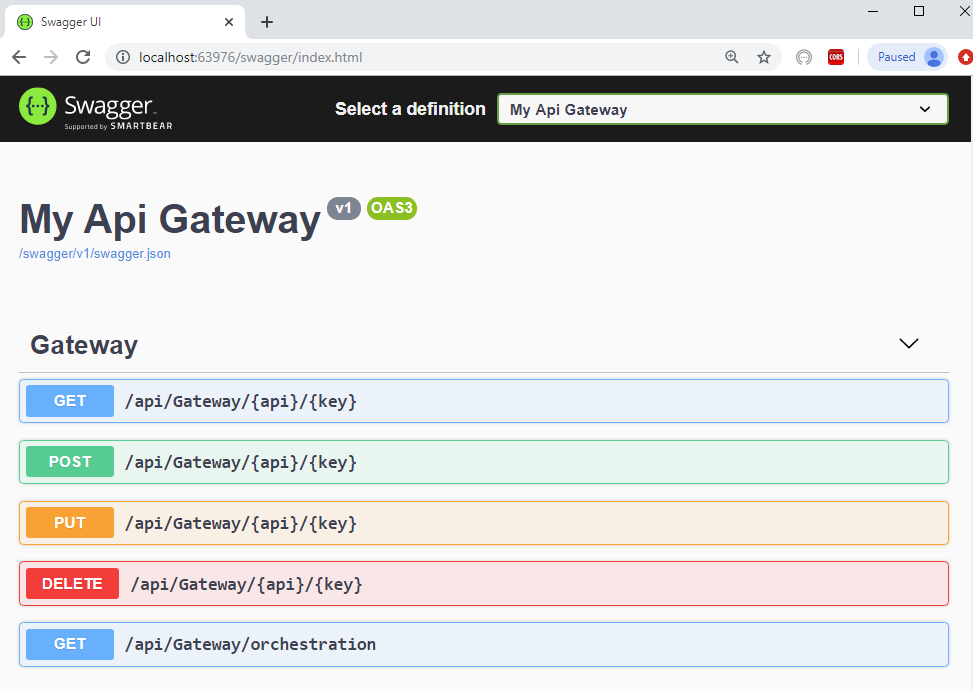
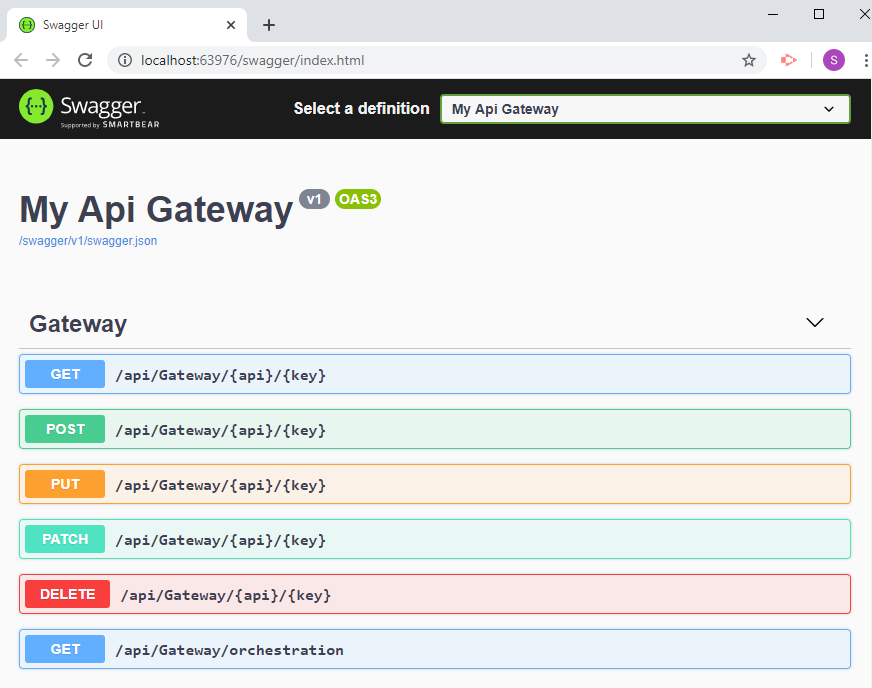
added verb patch.

diff --git a/AspNetCore.ApiGateway/Controllers/GatewayController.cs b/AspNetCore.ApiGateway/Controllers/GatewayController.cs
@@ -1,9 +1,9 @@
 using AspNetCore.ApiGateway.Authorization;
 using Microsoft.AspNetCore.Http;
+using Microsoft.AspNetCore.JsonPatch;
 using Microsoft.AspNetCore.Mvc;
 using Microsoft.Extensions.Logging;
 using Newtonsoft.Json;
-using System;
 using System.Linq;
 using System.Net.Http;
 using System.Net.Http.Headers;
@@ -170,6 +170,62 @@ namespace AspNetCore.ApiGateway.Controllers
                     _logger.LogApiInfo($"{apiInfo.BaseUrl}{routeInfo.Path}{parameters}");
 
                     var response = await client.PutAsync($"{apiInfo.BaseUrl}{routeInfo.Path}{parameters}", content);
+
+                    _logger.LogApiInfo($"{apiInfo.BaseUrl}{routeInfo.Path}{parameters}", false);
+
+                    response.EnsureSuccessStatusCode();
+
+                    return Ok(routeInfo.ResponseType != null
+                        ? JsonConvert.DeserializeObject(await response.Content.ReadAsStringAsync(), routeInfo.ResponseType)
+                        : await response.Content.ReadAsStringAsync());
+                }
+            }
+        }
+
+        [HttpPatch]
+        [Route("{api}/{key}")]
+        [ServiceFilter(typeof(GatewayPatchAuthorizeAttribute))]
+        public async Task<IActionResult> Patch(string api, string key, [FromBody] JsonPatchDocument<object> patch, string parameters = null)
+        {
+            if (parameters != null)
+                parameters = HttpUtility.UrlDecode(parameters);
+            else
+                parameters = string.Empty;
+
+            _logger.LogApiInfo(api, key, parameters, patch.ToString());
+
+            var apiInfo = _apiOrchestrator.GetApi(api);
+
+            var gwRouteInfo = apiInfo.Mediator.GetRoute(key);
+
+            var routeInfo = gwRouteInfo.Route;
+
+            if (routeInfo.Exec != null)
+            {
+                return Ok(await routeInfo.Exec(apiInfo, this.Request));
+            }
+            else
+            {
+                using (var client = routeInfo.HttpClientConfig?.HttpClient() ?? new HttpClient())
+                {
+                    HttpContent content = null;
+
+                    if (routeInfo.HttpClientConfig?.HttpContent != null)
+                    {
+                        content = routeInfo.HttpClientConfig.HttpContent();
+                    }
+                    else
+                    {
+                        var p = JsonConvert.SerializeObject(patch);
+
+                        content = new StringContent(p, Encoding.UTF8, "application/json-patch+json");
+                    }
+
+                    this.Request.Headers?.AddRequestHeaders(client.DefaultRequestHeaders);
+
+                    _logger.LogApiInfo($"{apiInfo.BaseUrl}{routeInfo.Path}{parameters}");
+
+                    var response = await client.PatchAsync($"{apiInfo.BaseUrl}{routeInfo.Path}{parameters}", content);
 
                     _logger.LogApiInfo($"{apiInfo.BaseUrl}{routeInfo.Path}{parameters}", false);
 

diff --git a/AspNetCore.ApiGateway.Tests/GatewayTests.cs b/AspNetCore.ApiGateway.Tests/GatewayTests.cs
@@ -12,6 +12,7 @@ using System;
 using System.Net.Http.Headers;
 using System.Text;
 using System.Linq;
+using Microsoft.AspNetCore.JsonPatch;
 
 namespace AspNetCore.ApiGateway.Tests
 {
@@ -179,6 +180,36 @@ namespace AspNetCore.ApiGateway.Tests
             var weatherTypes = JsonConvert.DeserializeObject<string[]>(await response.Content.ReadAsStringAsync());
 
             Assert.True(weatherTypes[3] == "Coooooooool");
+        }        
+
+        [Fact]
+        public async Task Test_Patch_Pass()
+        {
+            var client = _apiInit.GatewayAPI.CreateClient();
+
+            //Gateway API url with Api key and Route key
+            var gatewayUrl = "http://localhost/api/Gateway/weatherservice/patch";            
+
+            JsonPatchDocument<WeatherForecast> jsonPatch = new JsonPatchDocument<WeatherForecast>();
+            jsonPatch.Add(x => x.TemperatureC, 35);
+
+            var content = new StringContent(JsonConvert.SerializeObject(jsonPatch), Encoding.UTF8, "application/json-patch+json");
+            content.Headers.ContentType = new MediaTypeHeaderValue("application/json-patch+json");
+
+            var httprequest = new HttpRequestMessage
+            {
+                RequestUri = new Uri(gatewayUrl),
+                Content = content,
+                Method = HttpMethod.Patch
+            };
+
+            var response = await client.SendAsync(httprequest);
+
+            response.EnsureSuccessStatusCode();
+
+            var weatherForecast = JsonConvert.DeserializeObject<WeatherForecast>(await response.Content.ReadAsStringAsync());
+
+            Assert.True(weatherForecast.TemperatureC == 35);
         }
 
         [Fact]

diff --git a/Weather.API/Controllers/WeatherForecastController.cs b/Weather.API/Controllers/WeatherForecastController.cs
@@ -1,9 +1,9 @@
-using System;
-using System.Collections.Generic;
-using System.Linq;
-using System.Threading.Tasks;
+using Microsoft.AspNetCore.JsonPatch;
 using Microsoft.AspNetCore.Mvc;
 using Microsoft.Extensions.Logging;
+using System;
+using System.Collections.Generic;
+using System.Linq;
 
 namespace Weather.API.Controllers
 {
@@ -18,9 +18,18 @@ namespace Weather.API.Controllers
 
         private readonly ILogger<WeatherForecastController> _logger;
 
+        static Random rng = new Random();
+
+        private readonly WeatherForecast now = new WeatherForecast
+        {
+            Date = DateTime.Now,
+            TemperatureC = rng.Next(-20, 55),
+            Summary = Summaries[rng.Next(Summaries.Length)]
+        };
+
         public WeatherForecastController(ILogger<WeatherForecastController> logger)
         {
-            _logger = logger;
+            _logger = logger;            
         }
 
         [HttpGet]
@@ -85,5 +94,22 @@ namespace Weather.API.Controllers
 
             return Summaries;
         }
+
+        [HttpPatch]
+        [Route("forecast/patch")]
+        public IActionResult Test([FromBody] JsonPatchDocument<WeatherForecast> patch)
+        {
+            if (patch != null)
+            {                
+                patch.ApplyTo(now);
+
+                return Ok(now);
+            }
+            else
+            {
+                return BadRequest(ModelState);
+            }
+        }
+
     }
 }

diff --git a/ApiGateway.API/Application/ApiOrchestration.cs b/ApiGateway.API/Application/ApiOrchestration.cs
@@ -28,6 +28,8 @@ namespace ApiGateway.API
                                 .AddRoute("add", GatewayVerb.POST, new RouteInfo { Path = "weatherforecast/types/add", RequestType = typeof(AddWeatherTypeRequest), ResponseType = typeof(string[])})
                                 //Put
                                 .AddRoute("update", GatewayVerb.PUT, new RouteInfo { Path = "weatherforecast/types/update", RequestType = typeof(UpdateWeatherTypeRequest), ResponseType = typeof(string[]) })
+                                //Patch
+                                .AddRoute("patch", GatewayVerb.PATCH, new RouteInfo { Path = "weatherforecast/forecast/patch", ResponseType = typeof(WeatherForecast) })
                                 //Delete
                                 .AddRoute("remove", GatewayVerb.DELETE, new RouteInfo { Path = "weatherforecast/types/remove/", ResponseType = typeof(string[]) })
                         .AddApi("stockservice", "http://localhost:63967/")

diff --git a/AspNetCore.ApiGateway/Application/Extensions.cs b/AspNetCore.ApiGateway/Application/Extensions.cs
@@ -21,6 +21,7 @@ namespace AspNetCore.ApiGateway
             services.AddScoped<GatewayGetOrchestrationAuthorizeAttribute>();
             services.AddScoped<GatewayPostAuthorizeAttribute>();
             services.AddScoped<GatewayPutAuthorizeAttribute>();
+            services.AddScoped<GatewayPatchAuthorizeAttribute>();
             services.AddScoped<GatewayDeleteAuthorizeAttribute>();
 
             services.AddControllers().AddNewtonsoftJson(x => x.SerializerSettings.ReferenceLoopHandling = Newtonsoft.Json.ReferenceLoopHandling.Ignore);

diff --git a/AspNetCore.ApiGateway/Application/Authorization/GatewayAuthorizeAttribute.cs b/AspNetCore.ApiGateway/Application/Authorization/GatewayAuthorizeAttribute.cs
@@ -86,6 +86,13 @@ namespace AspNetCore.ApiGateway.Authorization
         }
     }
 
+    internal class GatewayPatchAuthorizeAttribute : GatewayVerbAuthorizeAttribute
+    {
+        public GatewayPatchAuthorizeAttribute(IPatchGatewayAuthorization authorization = null) : base(authorization)
+        {
+        }
+    }
+
     [AttributeUsage(AttributeTargets.Class | AttributeTargets.Method, AllowMultiple = true, Inherited = true)]
     internal class GatewayDeleteAuthorizeAttribute : GatewayVerbAuthorizeAttribute
     {

diff --git a/Weather.API/Startup.cs b/Weather.API/Startup.cs
@@ -26,6 +26,8 @@ namespace Weather.API
         public void ConfigureServices(IServiceCollection services)
         {
             services.AddControllers();
+
+            services.AddMvc().AddNewtonsoftJson();
         }
 
         // This method gets called by the runtime. Use this method to configure the HTTP request pipeline.

diff --git a/AspNetCore.ApiGateway/Application/Authorization/IGatewayAuthorization.cs b/AspNetCore.ApiGateway/Application/Authorization/IGatewayAuthorization.cs
@@ -29,6 +29,10 @@ namespace AspNetCore.ApiGateway.Authorization
     {
     }
 
+    public interface IPatchGatewayAuthorization : IGatewayVerbAuthorization
+    {
+    }
+
     public interface IDeleteGatewayAuthorization : IGatewayVerbAuthorization
     {
     }

diff --git a/AspNetCore.ApiGateway/Application/Mediator.cs b/AspNetCore.ApiGateway/Application/Mediator.cs
@@ -13,6 +13,7 @@ namespace AspNetCore.ApiGateway
         GET,
         POST,
         PUT,
+        PATCH,
         DELETE
     }
 

diff --git a/README.md b/README.md
@@ -67,6 +67,8 @@ You add a Route for the backend GET call in the **Api Orchrestrator**.
                                 .AddRoute("add", GatewayVerb.POST, new RouteInfo { Path = "weatherforecast/types/add", RequestType = typeof(AddWeatherTypeRequest), ResponseType = typeof(string[])})
                                 //Put
                                 .AddRoute("update", GatewayVerb.PUT, new RouteInfo { Path = "weatherforecast/types/update", RequestType = typeof(UpdateWeatherTypeRequest), ResponseType = typeof(string[]) })
+                                //Patch
+                                .AddRoute("patch", GatewayVerb.PATCH, new RouteInfo { Path = "weatherforecast/forecast/patch", ResponseType = typeof(WeatherForecast) })
                                 //Delete
                                 .AddRoute("remove", GatewayVerb.DELETE, new RouteInfo { Path = "weatherforecast/types/remove/", ResponseType = typeof(string[]) })
                         .AddApi("stockservice", "http://localhost:63967/")

diff --git a/README_Orchestration.md b/README_Orchestration.md
@@ -166,6 +166,36 @@ The response is like below:
         }
       },
       {
+        "key": "patch",
+        "verb": "PATCH",
+        "requestJsonSchema": null,
+        "responseJsonSchema": {
+          "title": "WeatherForecast",
+          "type": "object",
+          "additionalProperties": false,
+          "properties": {
+            "Date": {
+              "type": "string",
+              "format": "date-time"
+            },
+            "TemperatureC": {
+              "type": "integer",
+              "format": "int32"
+            },
+            "TemperatureF": {
+              "type": "integer",
+              "format": "int32"
+            },
+            "Summary": {
+              "type": [
+                "null",
+                "string"
+              ]
+            }
+          }
+        }
+      },
+      {
         "key": "remove",
         "verb": "DELETE",
         "requestJsonSchema": null,

diff --git a/README_VERBS.md b/README_VERBS.md
@@ -14,6 +14,10 @@
 
 ![API Gateway Swagger](https://github.com/VeritasSoftware/AspNetCore.ApiGateway/blob/master/Update.PNG)
 
+### PATCH
+
+![API Gateway Swagger](https://github.com/VeritasSoftware/AspNetCore.ApiGateway/blob/master/Patch.PNG)
+
 ### DELETE
 
 ![API Gateway Swagger](https://github.com/VeritasSoftware/AspNetCore.ApiGateway/blob/master/Delete.PNG)
